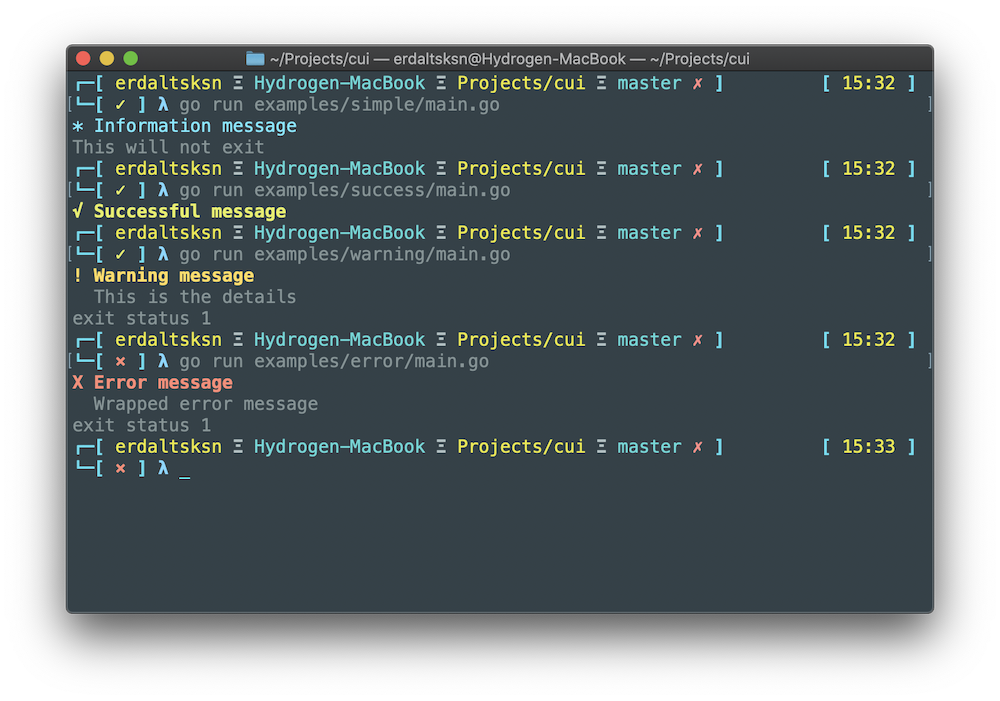
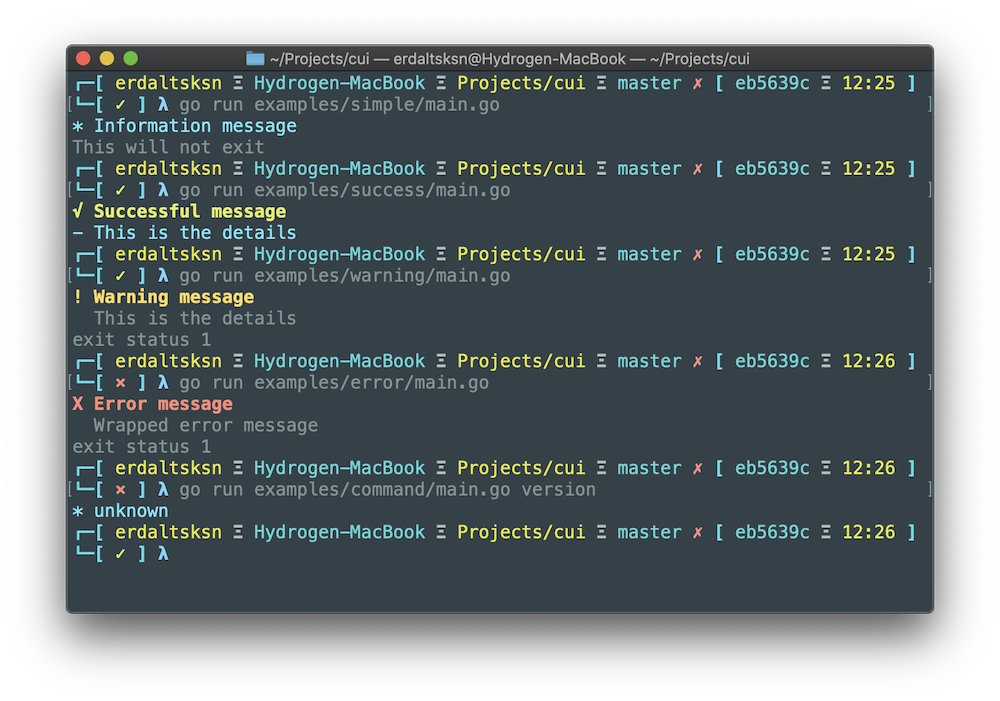
docs: (readme) Update examples and usage

diff --git a/examples/success/main.go b/examples/success/main.go
@@ -5,5 +5,5 @@ import (
 )
 
 func main() {
-	cui.Success("Successful message")
+	cui.Success("Successful message", "This is the details")
 }

diff --git a/README.md b/README.md
@@ -58,6 +58,8 @@ go get -u github.com/erdaltsksn/cui
 
 ## Usage
 
+### Alerts
+
 ```go
 // Success
 cui.Success("This is a success message")
@@ -76,7 +78,7 @@ if err != nil {
 }
 ```
 
-### Adding Version Command
+### Version Command
 
 **.goreleaser.yml:**
 
